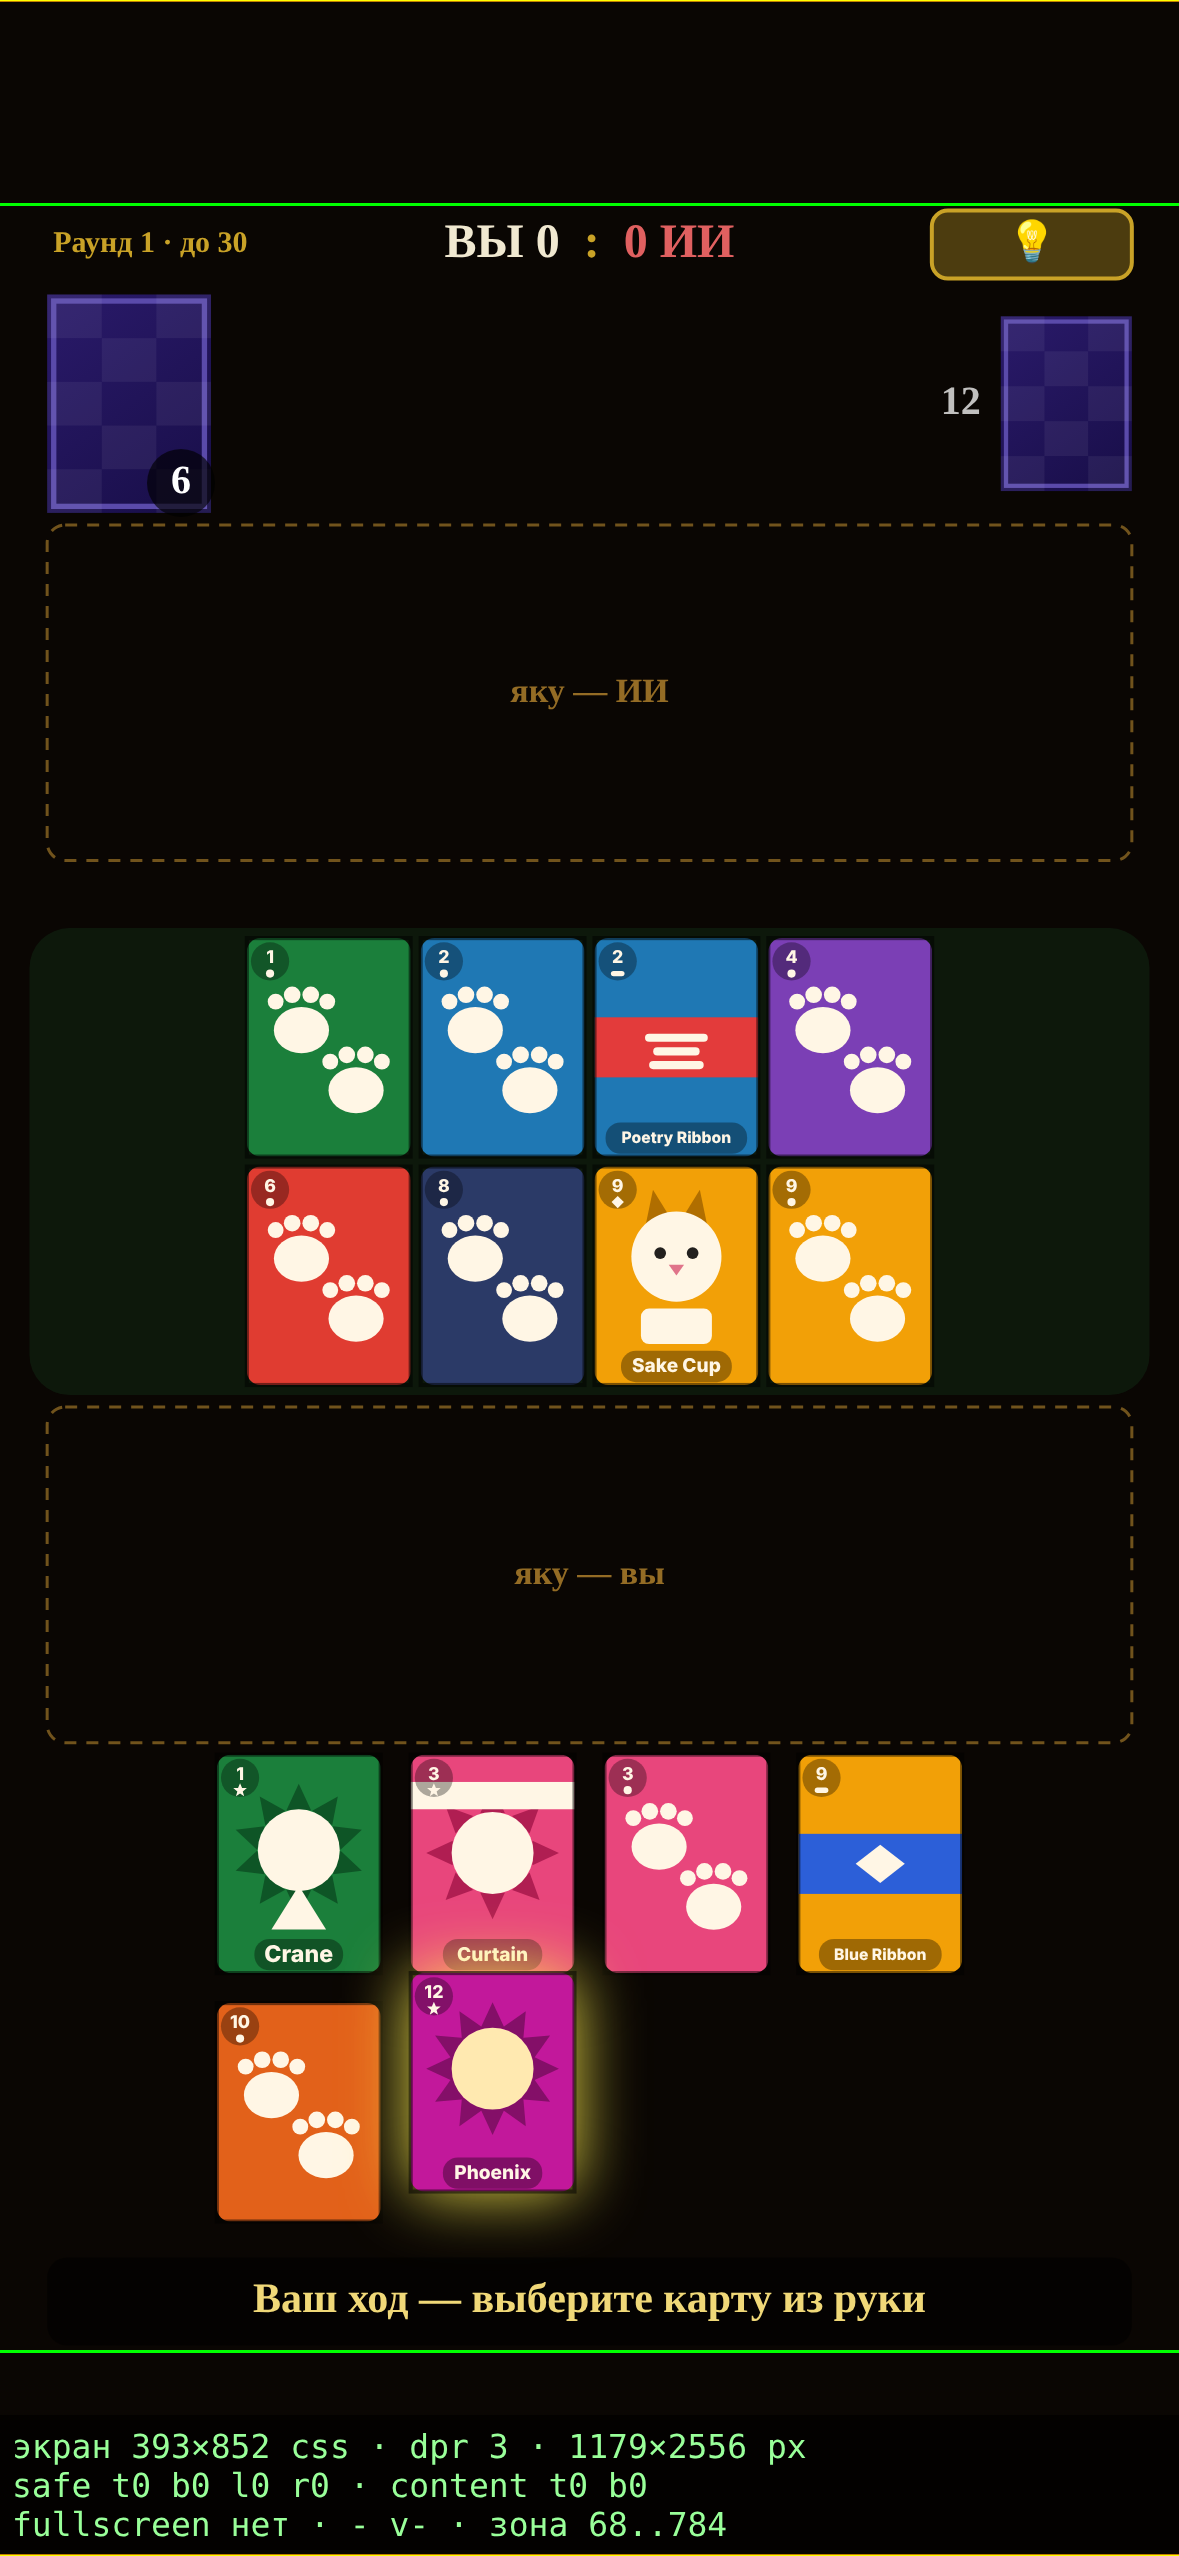
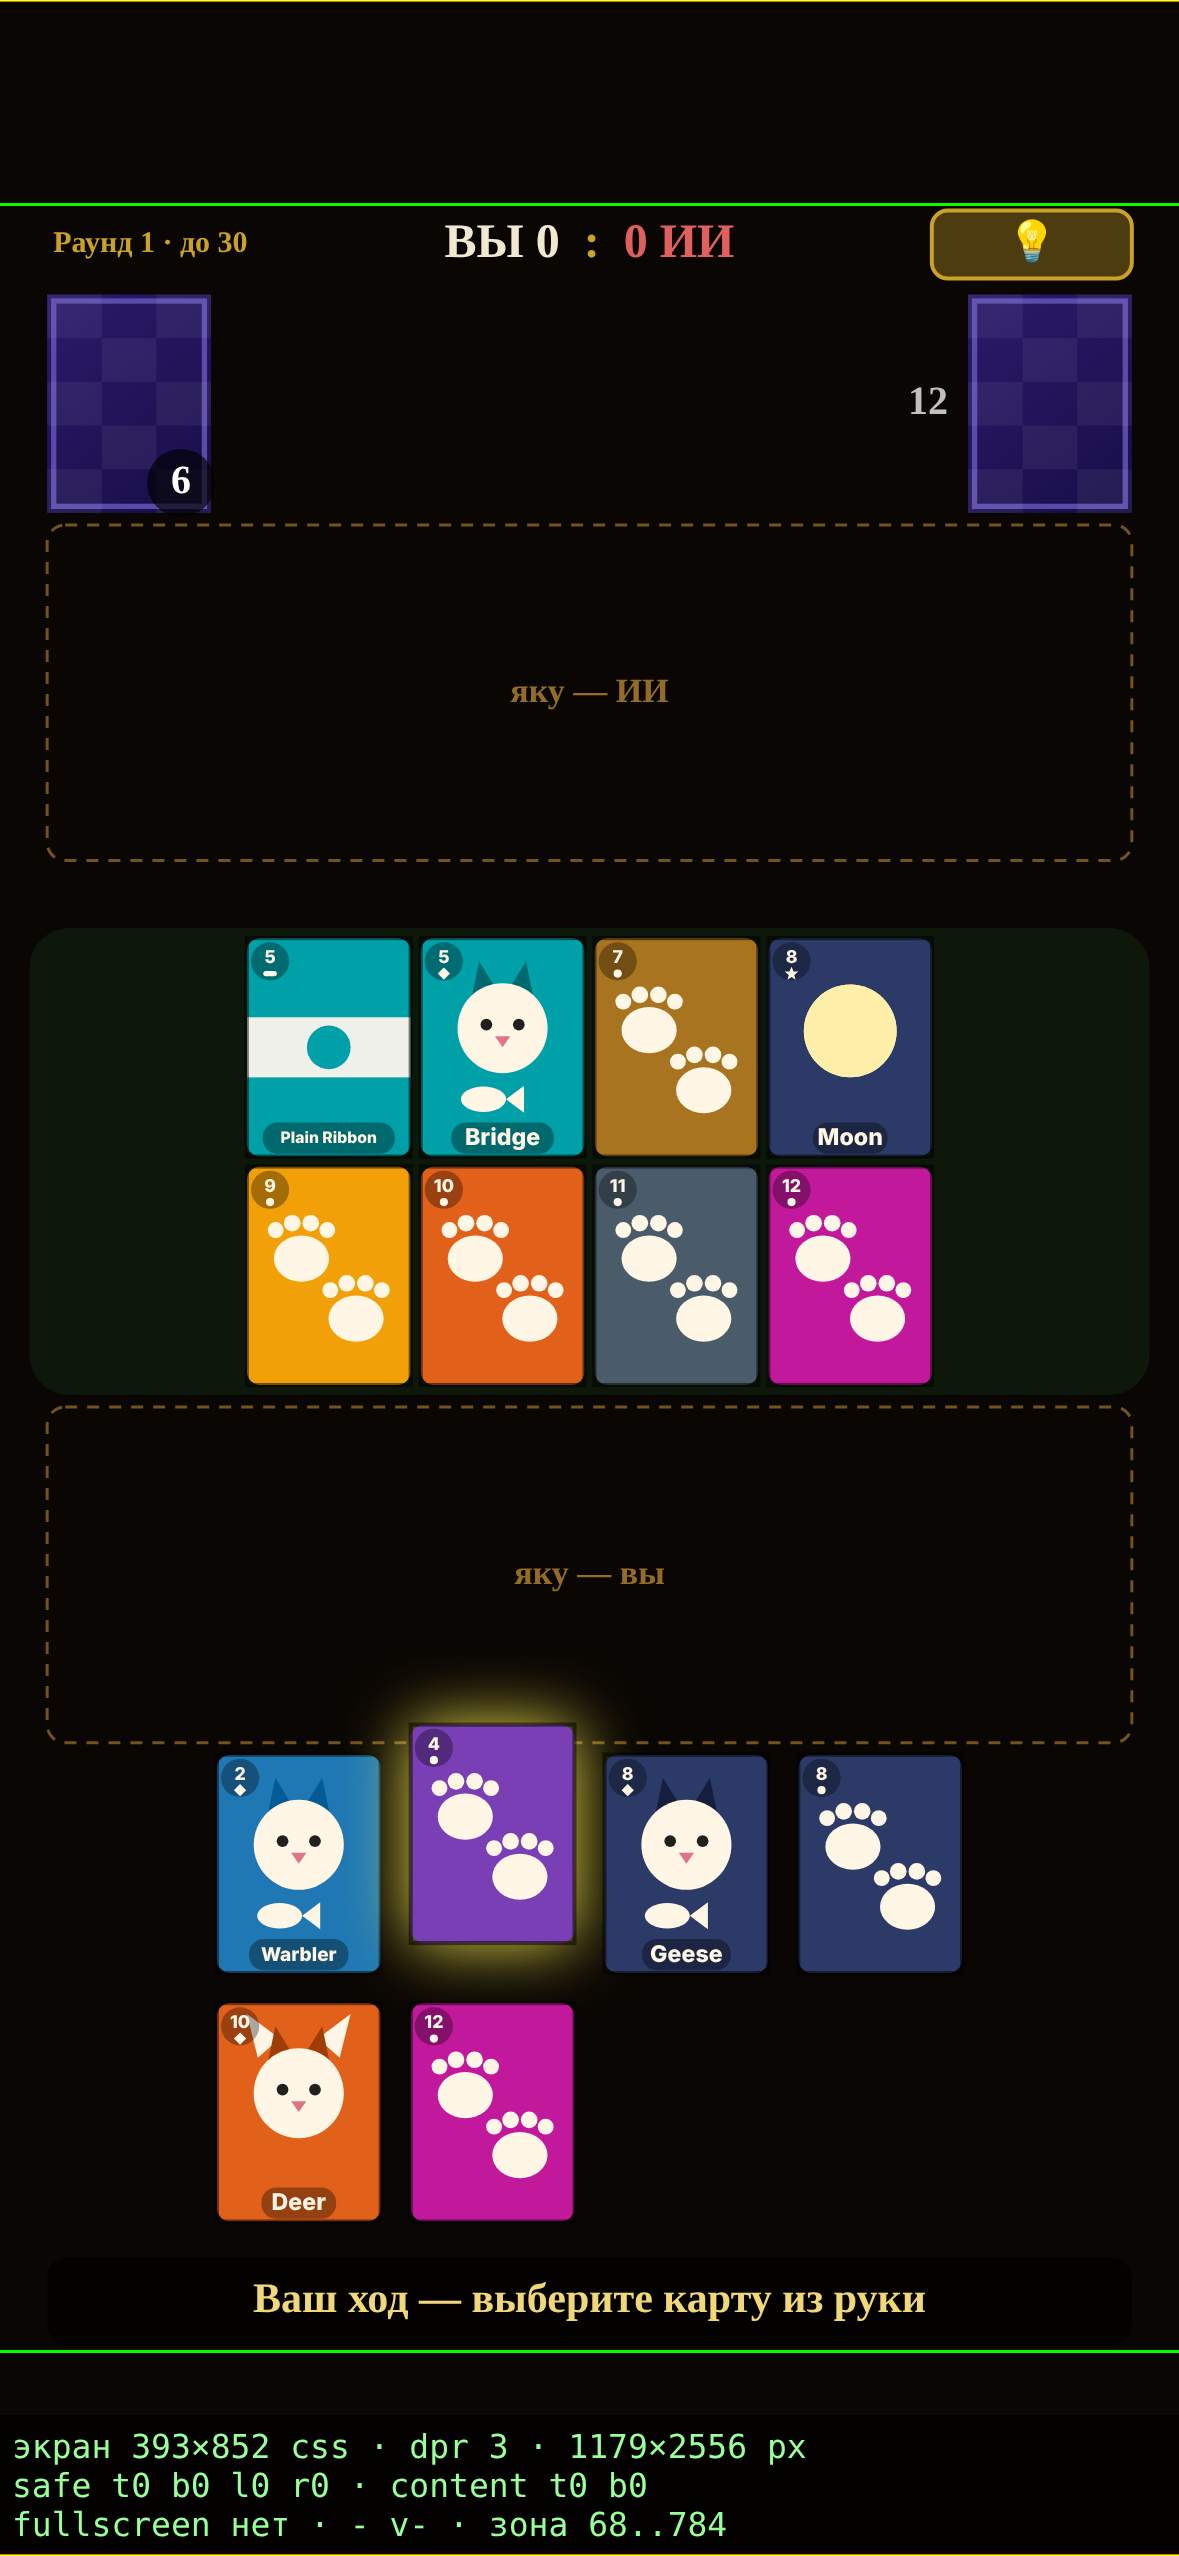
UI: колода того же размера, что карта ИИ; пометки о выкатке v5.1
Claude-Session: https://claude.ai/code/session_01YWBhc7XyH6Quahzkpjq16G

Changed region(s): [[0.1832, 0.34, 0.7939, 0.5563], [0.1832, 0.6491, 0.8244, 0.8963], [0.7939, 0.0927, 0.9771, 0.2164]]

diff --git a/index.html b/index.html
@@ -235,7 +235,7 @@ const YBTN = 762;  // Choice buttons
 // Поля: по бокам 4%, сверху и снизу 8% → игровая зона 92% × 84%.
 // Карты 3:4, один размер для руки, стола и ИИ (на 5% меньше, чем 2×6 через
 // 10 px ровно по зоне). Стол по центру экрана: обычно 2×4, лишние — колонки
-// 5–6, сетка остаётся по центру. Колода ×0,8 — справа, зеркально карте ИИ.
+// 5–6, сетка остаётся по центру. Колода — справа, зеркально карте ИИ, того же размера.
 // Карта хода ИИ и карта из колоды выезжают чуть выше стола (слева/справа).
 // Рука 2×4 по центру, под ней полоса «Мяу-Мяу». Над и под столом — место яку.
 // k — масштаб реф. px → CSS px; если экран короче нужного, k уменьшается
@@ -250,7 +250,7 @@ const TABLE_COLS=6;                // стол 2×6 (обычно занято 2
 const BCW=0.95*(SAFE_W-(TABLE_COLS-1)*B_GAP)/TABLE_COLS; // 163.8
 const BCH=BCW*4/3;                 // 218.4 — пропорция 3:4
 const HAND_GAP=30;                 // промежуток в руке
-const DECK_K=0.8;                  // колода — 0,8 от карты
+const DECK_K=1;                    // колода — того же размера, что карта ИИ
 const BAND_H=100;                  // полоса сообщений / «Мяу-Мяу»
 const HEADER_H=80;                 // счёт/раунд/💡
 const MIN_CELLS=200;               // минимальная высота зоны ячеек яку

diff --git a/docs/ui-layout.md b/docs/ui-layout.md
@@ -8,7 +8,7 @@
   Вертикальные поля — временно, до сверки с требованиями Telegram (см. метку ниже).
 - **Карты 3:4, один размер** для руки, стола и ИИ — **164×218**: на 5% меньше,
   чем 2×6 через 10 px ровно по зоне (172×230).
-- **Колода ×0,8 (131×175)** — справа, зеркально карте ИИ (та же строка), число
+- **Колода того же размера, что карта ИИ (164×218)** — справа, зеркально ей (та же строка), число
   карт слева от колоды.
 - **Выезд карт:** карта хода ИИ выезжает из его карты влево-вниз, карта из колоды —
   из колоды вправо-вниз; обе встают чуть выше стола (на 0,3 высоты карты) у краёв
@@ -30,7 +30,7 @@
   dpr, физические px, `safeAreaInset`, `contentSafeAreaInset`, fullscreen,
   платформа и версия Telegram; линии: красная — safe area устройства, жёлтая —
   плюс кнопки Telegram, зелёная — граница нашей зоны.
-- Замер `measure.js`: iPhone 15 — карта 163,8×218,4, колода 131×175, ряд 4 = 685,
+- Замер `measure.js`: iPhone 15 — карта и колода 163,8×218,4, ряд 4 = 685,
   ряд 6 = 1033, яку по 360; Android 412×915 — яку 404; 16:9 375×667 — k уменьшен,
   карта 147×196, по бокам 6,7%.
 

diff --git a/CLAUDE.md b/CLAUDE.md
@@ -43,8 +43,9 @@
   (так было в сентябре–октябре 2026). Против этого — `api/keepalive.js`.
 
 ## Дальше (из §0)
-1. UI: раскладка игрового поля по шаблону пользователя готова в ветке `ui/screen-layout` (не в `main`),
-   описание и принятые решения — `docs/ui-layout.md`. Следующий шаг — по слову пользователя влить в `main`
-   (fast-forward) и дождаться его проверки на телефоне; меню/журнал/итог раунда — ждут описания.
+1. UI: раскладка игрового поля v5.1 (`docs/ui-layout.md`) влита в `main` 2026-10-10 по слову пользователя,
+   ждём его проверки на телефоне. Включена временная метка `DEBUG_INSETS` (отступы Telegram) — по её
+   скриншоту выставить верхнее/нижнее поле, потом выключить. Яку — пока текст в рамках, оформление ждёт
+   описания; меню/журнал/итог раунда — тоже.
 2. Проверка бэкенда — сделана 2026-10-09 (`GAME-STATE.md` §7).
 3. Доработки PIMC — только по запросу.

diff --git a/GAME-STATE.md b/GAME-STATE.md
@@ -16,8 +16,8 @@ Telegram Mini App поверх бота `@KittyFooda_bot`.
 - **Дальше по плану пользователя:**
   1. переделка UI под размер/аспект экрана + подготовка под загрузку арта
      — **сделана раскладка игрового поля по шаблону пользователя** (iPhone 15,
-     1179×2556) в ветке `ui/screen-layout`, в `main` **не влита**: ждём,
-     скажет ли пользователь выкатить. Описание — `docs/ui-layout.md`.
+     1179×2556), макет v5.1, **влита в `main` 2026-10-10**; ждём проверки
+     на телефоне (временная метка `DEBUG_INSETS`). Описание — `docs/ui-layout.md`.
      Меню/журнал/итог раунда ещё старые — ждут описания;
   2. ~~проверка бэкенда/безопасности~~ — сделано 2026-10-09 (§7);
   3. (отложено) доработки PIMC из §5.11 — только по запросу.
